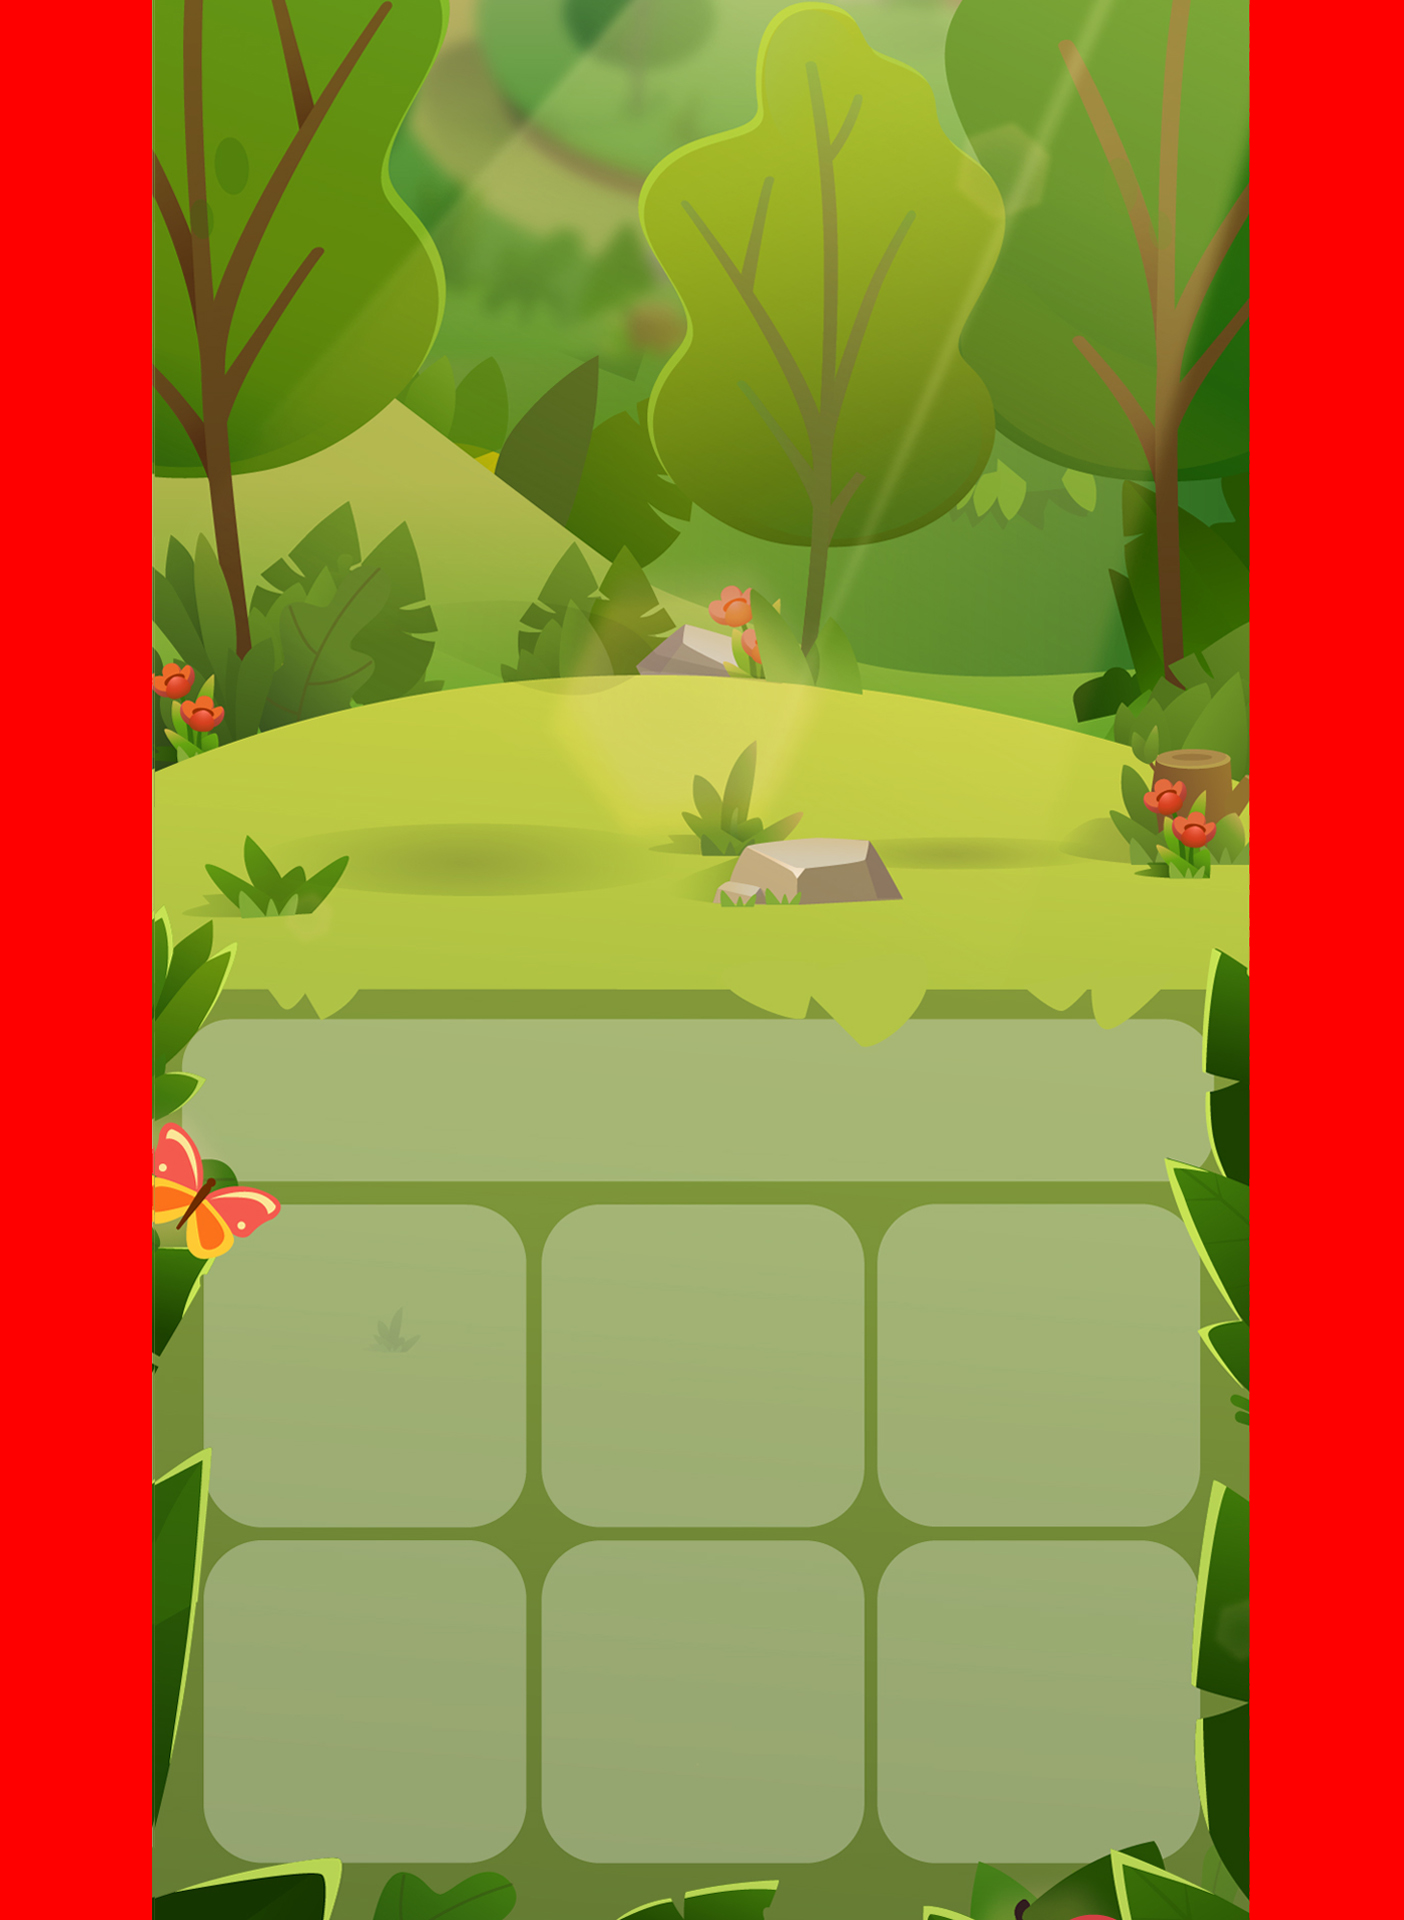
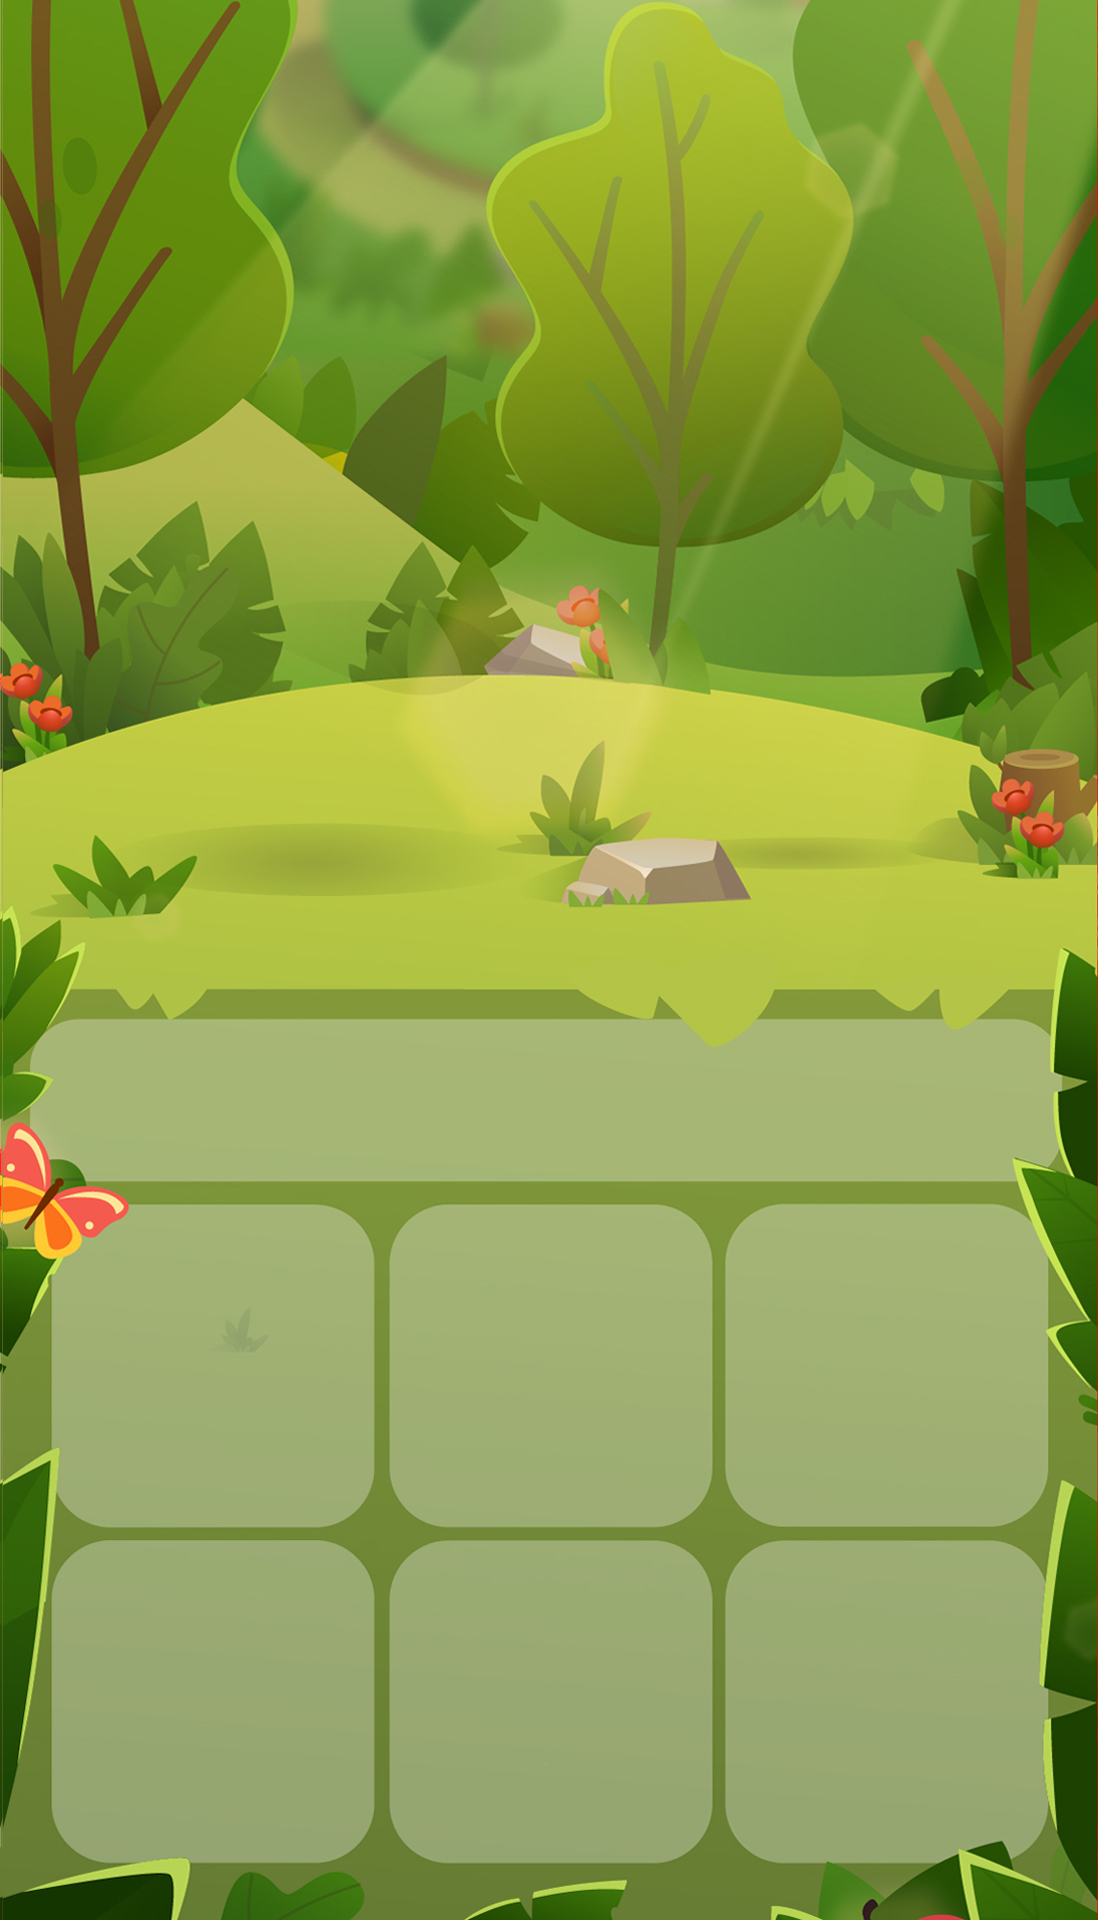
scale backrount image

diff --git a/src/containers/background/Background.container.ts b/src/containers/background/Background.container.ts
@@ -5,7 +5,10 @@ import Config from '../../core/Config';
 import AssetsLoader from '../../core/AssetsLoader';
 import { StoreType } from 'store';
 import { onEvent } from '../../utils/store.subscribe';
-import { RENDER_BACKGROUND } from './types';
+import { RENDER_BACKGROUND, RE_RENDER_BACKGROUND } from './types';
+import { insideSize } from '../../utils/sprite';
+import { VIEW_PORT_RESIZE_ACTION } from '../../store/types';
+import { reRenderBackgroundAction } from './action';
 
 @injectable()
 class BackgroundContainer {
@@ -38,19 +41,33 @@ class BackgroundContainer {
 	}
 
 	protected initListeners(): void {
-		this.store.subscribe(onEvent(RENDER_BACKGROUND, this.render))
+		this.store.subscribe(onEvent(RENDER_BACKGROUND,
+			() => this.app.ticker.addOnce(this.render)));
+		this.store.subscribe(onEvent(RE_RENDER_BACKGROUND,
+			() => this.app.ticker.addOnce(this.reRender)));
+		this.store.subscribe(onEvent(VIEW_PORT_RESIZE_ACTION,
+			() => this.store.dispatch(reRenderBackgroundAction())));
 	}
 
 	protected renderContainer = () => {
 		const bgAsset = this.assetsLoader.getResource('magic_forest_bg.jpg');
 		this.baseSprite = new Sprite(bgAsset.texture);
 		this.baseSprite.anchor.set(0.5, 0.5);
+		this.reRender();
 		this.container.addChild(this.baseSprite);
 	}
 
 	protected render = () => {
 		this.renderContainer();
 		this.app.stage.addChild(this.container);
+	}
+
+	protected reRender = () => {
+		const { viewPort } = this.store.getState();
+		const nextSize = insideSize(this.baseSprite, viewPort);
+		this.baseSprite.width = nextSize[0];
+		this.baseSprite.height = nextSize[1];
+		this.baseSprite.position.set(viewPort.centerWidth, viewPort.centerHeight);
 	}
 
 }

diff --git a/src/utils/sprite.ts b/src/utils/sprite.ts
@@ -1,0 +1,44 @@
+import { Sprite } from "pixi.js";
+import { ViewPortState } from "../store/types";
+import { ViewPortRotation } from "../types/viewPort";
+
+export function spriteType(sprite: Sprite): ViewPortRotation {
+	return (sprite.width > sprite.height) ? ViewPortRotation.LANDSCAPE : ViewPortRotation.PORTRAIT;
+}
+
+export function insideSize(sprite: Sprite, viewPort: ViewPortState): Array<number> {
+	const spaceWidth = viewPort.width - sprite.width;
+	const spaceHeight = viewPort.height - sprite.height;
+	// console.log('ration: ', spaceWidth, spaceHeight, ' viewPort: ', viewPort.width, viewPort.height, ' sprite: ', sprite.width, sprite.height);
+	if (
+		spaceWidth > 0 && spaceHeight > 0
+	) {
+		// console.log('extend');
+		if (spaceWidth < spaceHeight) {
+			// console.log('by height');
+			const ratio = viewPort.height / sprite.height;
+			return [ratio * sprite.width, viewPort.height];
+		}
+		if (spaceWidth > spaceHeight) {
+			// console.log('by width');
+			const ratio = viewPort.width / sprite.width;
+			return [viewPort.width, sprite.width * ratio];
+		}
+	}
+	if (
+		spaceWidth < 1 || spaceHeight < 1
+	) {
+		// console.log('compress');
+		if (spaceWidth > spaceHeight) {
+			// console.log('by height');
+			const ratio = viewPort.height / sprite.height;
+			return [(ratio % 1) * sprite.width, viewPort.height];
+		}
+		if (spaceWidth < spaceHeight) {
+			// console.log('by width');
+			const ratio = viewPort.width / sprite.width;
+			return [sprite.width, sprite.height * (ratio % 1)];
+		}
+	}
+	throw 'Need more case for scale image';
+}

diff --git a/src/core/Game.ts b/src/core/Game.ts
@@ -8,8 +8,10 @@ import { ASSETS_IS_LOADED } from './types';
 import { onEvent } from '../utils/store.subscribe';
 import { renderBackgroundAction } from '../containers/background/action';
 import BackgroundContainer from '../containers/background/Background.container';
-import { screenResizeAction } from './actions';
+import { viewPortResizeAction } from '../store/actions';
 import isMobile from 'ismobilejs';
+import * as _ from 'lodash';
+import { waitReRenderViewPort } from '../utils/viewPort';
 
 @injectable()
 class Game {
@@ -44,9 +46,13 @@ class Game {
 
 	protected initListeners(): void {
 		if (isMobile().any) {
-			window.addEventListener('orientationchange', this.onScreenResize);
+			window.addEventListener('orientationchange', () => {
+				waitReRenderViewPort(this.onScreenResized)
+			});
 		} else {
-			window.addEventListener('resize', this.onScreenResize);
+			window.addEventListener('resize', () => {
+				waitReRenderViewPort(this.onScreenResized)
+			});
 		}
 
 		this.store.subscribe(onEvent(ASSETS_IS_LOADED, this.initBackground));
@@ -60,10 +66,9 @@ class Game {
 		this.store.dispatch(renderBackgroundAction());
 	}
 
-	protected onScreenResize = () => {
-		this.store.dispatch(screenResizeAction())
+	protected onScreenResized = () => {
+		this.store.dispatch(viewPortResizeAction());
 	}
-
 }
 
 export default Game;

diff --git a/src/store/viewPort.reducer.ts b/src/store/viewPort.reducer.ts
@@ -1,0 +1,34 @@
+import {
+  ViewPortState,
+  VPActionTypes,
+  VIEW_PORT_RESIZE_ACTION,
+} from './types'
+import * as viewPort from '../utils/viewPort';
+
+const initialState: ViewPortState = {
+  rotation: viewPort.getRotation(),
+  width: viewPort.getWidth(),
+  height: viewPort.getHeight(),
+  centerHeight: viewPort.getHeightCenter(),
+  centerWidth: viewPort.getWidthCenter(),
+}
+
+export function viewPortReducer(
+  state = initialState,
+  action: VPActionTypes
+): ViewPortState {
+
+  switch (action.type) {
+    case VIEW_PORT_RESIZE_ACTION: {
+      return {
+        width: viewPort.getWidth(),
+        height: viewPort.getHeight(),
+        rotation: viewPort.getRotation(),
+        centerHeight: viewPort.getHeightCenter(),
+        centerWidth: viewPort.getWidthCenter(),
+      }
+    }
+    default:
+      return state
+  }
+}

diff --git a/src/utils/viewPort.ts b/src/utils/viewPort.ts
@@ -1,0 +1,26 @@
+import { ViewPortRotation } from "../types/viewPort";
+
+export function waitReRenderViewPort(cb: Function) {
+	const timeout: number = Number(process.env.RE_RENDER_TIMEOUT) || 300;
+	setTimeout(cb, timeout);
+}
+
+export function getRotation(): ViewPortRotation {
+	return (window.innerHeight > window.innerWidth) ? ViewPortRotation.PORTRAIT : ViewPortRotation.LANDSCAPE
+}
+
+export function getWidth() {
+	return window.innerWidth;
+}
+
+export function getHeight() {
+	return window.innerHeight;
+}
+
+export function getWidthCenter(): number {
+	return window.innerWidth / 2;
+}
+
+export function getHeightCenter(): number {
+	return window.innerHeight / 2;
+}

diff --git a/src/core/types.ts b/src/core/types.ts
@@ -1,15 +1,11 @@
-import { ScreenRotation } from "../types/screen";
-
 export const ASSETS_IS_LOADED = '@ASSETS/isLoaded';
-export const SCREEN_RESIZE_ACTION = '@SCREEN/resize';
 
 export interface GameState {
 	assetsIsLoaded: boolean,
-	screenRotation: ScreenRotation,
 }
 
 interface BaseAction {
-	type: typeof ASSETS_IS_LOADED | typeof SCREEN_RESIZE_ACTION,
+	type: typeof ASSETS_IS_LOADED
 }
 
 export type GameActionTypes = BaseAction;

diff --git a/src/store/types.ts b/src/store/types.ts
@@ -1,0 +1,17 @@
+import { ViewPortRotation } from "types/viewPort";
+
+export const VIEW_PORT_RESIZE_ACTION = '@VIEW_PORT/resize';
+
+export interface BaseAction {
+	type: typeof VIEW_PORT_RESIZE_ACTION
+}
+
+export interface ViewPortState {
+	rotation: ViewPortRotation,
+	width: number,
+	height: number,
+	centerHeight: number,
+	centerWidth: number,
+}
+
+export type VPActionTypes = BaseAction;

diff --git a/src/core/actions.ts b/src/core/actions.ts
@@ -1,13 +1,7 @@
-import { ASSETS_IS_LOADED, GameActionTypes, SCREEN_RESIZE_ACTION } from '../core/types'
+import { ASSETS_IS_LOADED, GameActionTypes } from '../core/types'
 
 export function assetsIsLoadedAction(): GameActionTypes {
 	return {
 		type: ASSETS_IS_LOADED,
-	}
-}
-
-export function screenResizeAction(): GameActionTypes {
-	return {
-		type: SCREEN_RESIZE_ACTION,
 	}
 }

diff --git a/src/containers/background/action.ts b/src/containers/background/action.ts
@@ -1,7 +1,13 @@
-import { RENDER_BACKGROUND, ActionTypes } from './types'
+import { RENDER_BACKGROUND, ActionTypes, RE_RENDER_BACKGROUND } from './types'
 
 export function renderBackgroundAction(): ActionTypes {
 	return {
 		type: RENDER_BACKGROUND,
+	}
+}
+
+export function  reRenderBackgroundAction(): ActionTypes {
+	return {
+		type: RE_RENDER_BACKGROUND,
 	}
 }

diff --git a/src/store/reducer.ts b/src/store/reducer.ts
@@ -1,8 +1,10 @@
 import { combineReducers } from 'redux';
 import { gameReducer } from '../core/game.reducer';
+import { viewPortReducer } from '../store/viewPort.reducer';
 import { lastAction } from './lastAction.reducer';
 
 export const rootReducer = combineReducers({
 	game: gameReducer,
+	viewPort: viewPortReducer,
 	lastAction,
 });

diff --git a/src/containers/background/types.ts b/src/containers/background/types.ts
@@ -1,8 +1,8 @@
 export const RENDER_BACKGROUND = '@Background/renderBackground';
-
+export const RE_RENDER_BACKGROUND = '@Background/reRenderBackground';
 
 interface InitBackground {
-	type: typeof RENDER_BACKGROUND,
+	type: typeof RENDER_BACKGROUND | typeof RE_RENDER_BACKGROUND
 }
 
 

diff --git a/src/core/game.reducer.ts b/src/core/game.reducer.ts
@@ -3,11 +3,9 @@ import {
   GameActionTypes,
   ASSETS_IS_LOADED
 } from './types'
-import { getScreenRotation } from '../utils/screen';
 
 const initialState: GameState = {
   assetsIsLoaded: false,
-  screenRotation: getScreenRotation(),
 }
 
 export function gameReducer(
